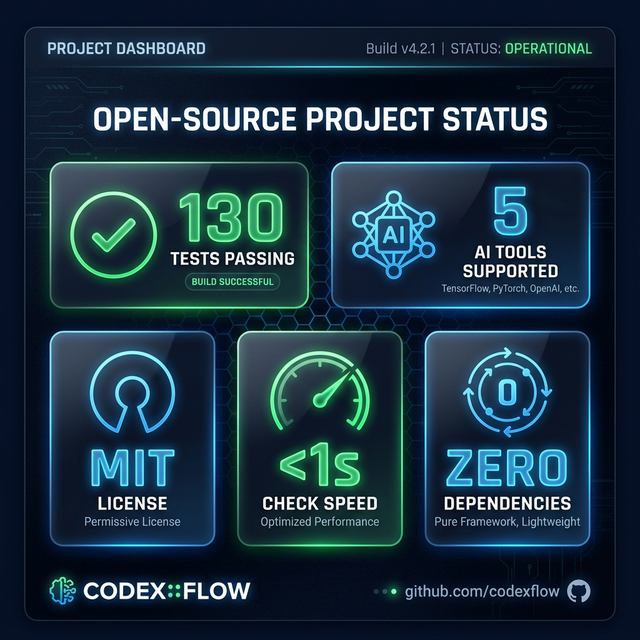
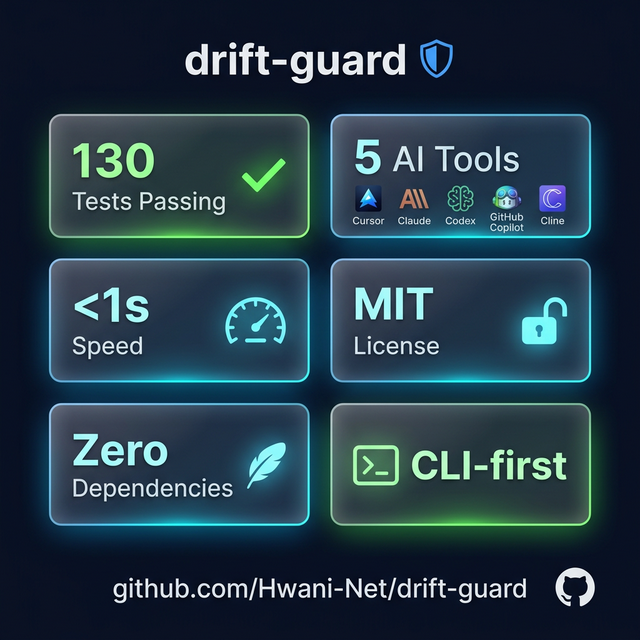
fix: regenerate social cards + add OG image meta tags
- Proof card: fix wrong brand name (CODEX::FLOW → drift-guard)
- Solution card: fix wrong command (scan → check)
- Demo page: add og:image + twitter:image meta tags
- Dev.to: fix branch name (main → master), add demo link + CLI image
- OG image: docs/assets/og-image.png for social sharing

diff --git a/docs/demo/index.html b/docs/demo/index.html
@@ -9,7 +9,11 @@
   <meta property="og:description" content="3 commands. 130 tests. Zero token overhead. Your design survives AI.">
   <meta property="og:type" content="website">
   <meta property="og:url" content="https://hwani-net.github.io/drift-guard/">
+  <meta property="og:image" content="https://raw.githubusercontent.com/Hwani-Net/drift-guard/master/docs/assets/og-image.png">
+  <meta property="og:image:width" content="1200">
+  <meta property="og:image:height" content="675">
   <meta property="twitter:card" content="summary_large_image">
+  <meta property="twitter:image" content="https://raw.githubusercontent.com/Hwani-Net/drift-guard/master/docs/assets/og-image.png">
   <link rel="preconnect" href="https://fonts.googleapis.com">
   <link rel="preconnect" href="https://fonts.gstatic.com" crossorigin>
   <link href="https://fonts.googleapis.com/css2?family=Inter:wght@400;500;600;700;800;900&family=JetBrains+Mono:wght@400;500;700&display=swap" rel="stylesheet">

diff --git a/docs/marketing/devto-article.md b/docs/marketing/devto-article.md
@@ -3,7 +3,7 @@ title: "How I Built drift-guard: A CLI to Stop AI Agents from Destroying Your De
 published: false
 description: "AI coding agents are great at adding features, terrible at preserving design. Here's how drift-guard locks your design tokens and DOM structure before AI touches your code."
 tags: webdev, ai, opensource, typescript
-cover_image: https://raw.githubusercontent.com/Hwani-Net/drift-guard/main/docs/assets/cli-demo.png
+cover_image: https://raw.githubusercontent.com/Hwani-Net/drift-guard/master/docs/assets/og-image.png
 canonical_url: https://github.com/Hwani-Net/drift-guard
 ---
 
@@ -24,6 +24,10 @@ I call this **Design Drift** — and after experiencing it for the 50th time, I 
 ## Introducing drift-guard
 
 **drift-guard** is a zero-config CLI that protects your UI from AI coding agents' design changes.
+
+> 🎮 **[Try the interactive demo →](https://hwani-net.github.io/drift-guard/)** See it in action, right in your browser.
+
+![drift-guard CLI demo](https://raw.githubusercontent.com/Hwani-Net/drift-guard/master/docs/assets/cli-demo.png)
 
 ```bash
 # Step 1: Lock your design
@@ -170,6 +174,7 @@ npx drift-guard rules
 npx drift-guard check
 ```
 
+- **Interactive Demo**: [hwani-net.github.io/drift-guard](https://hwani-net.github.io/drift-guard/)
 - **GitHub**: [Hwani-Net/drift-guard](https://github.com/Hwani-Net/drift-guard)
 - **npm**: [@stayicon/drift-guard](https://www.npmjs.com/package/@stayicon/drift-guard)
 - **License**: MIT
